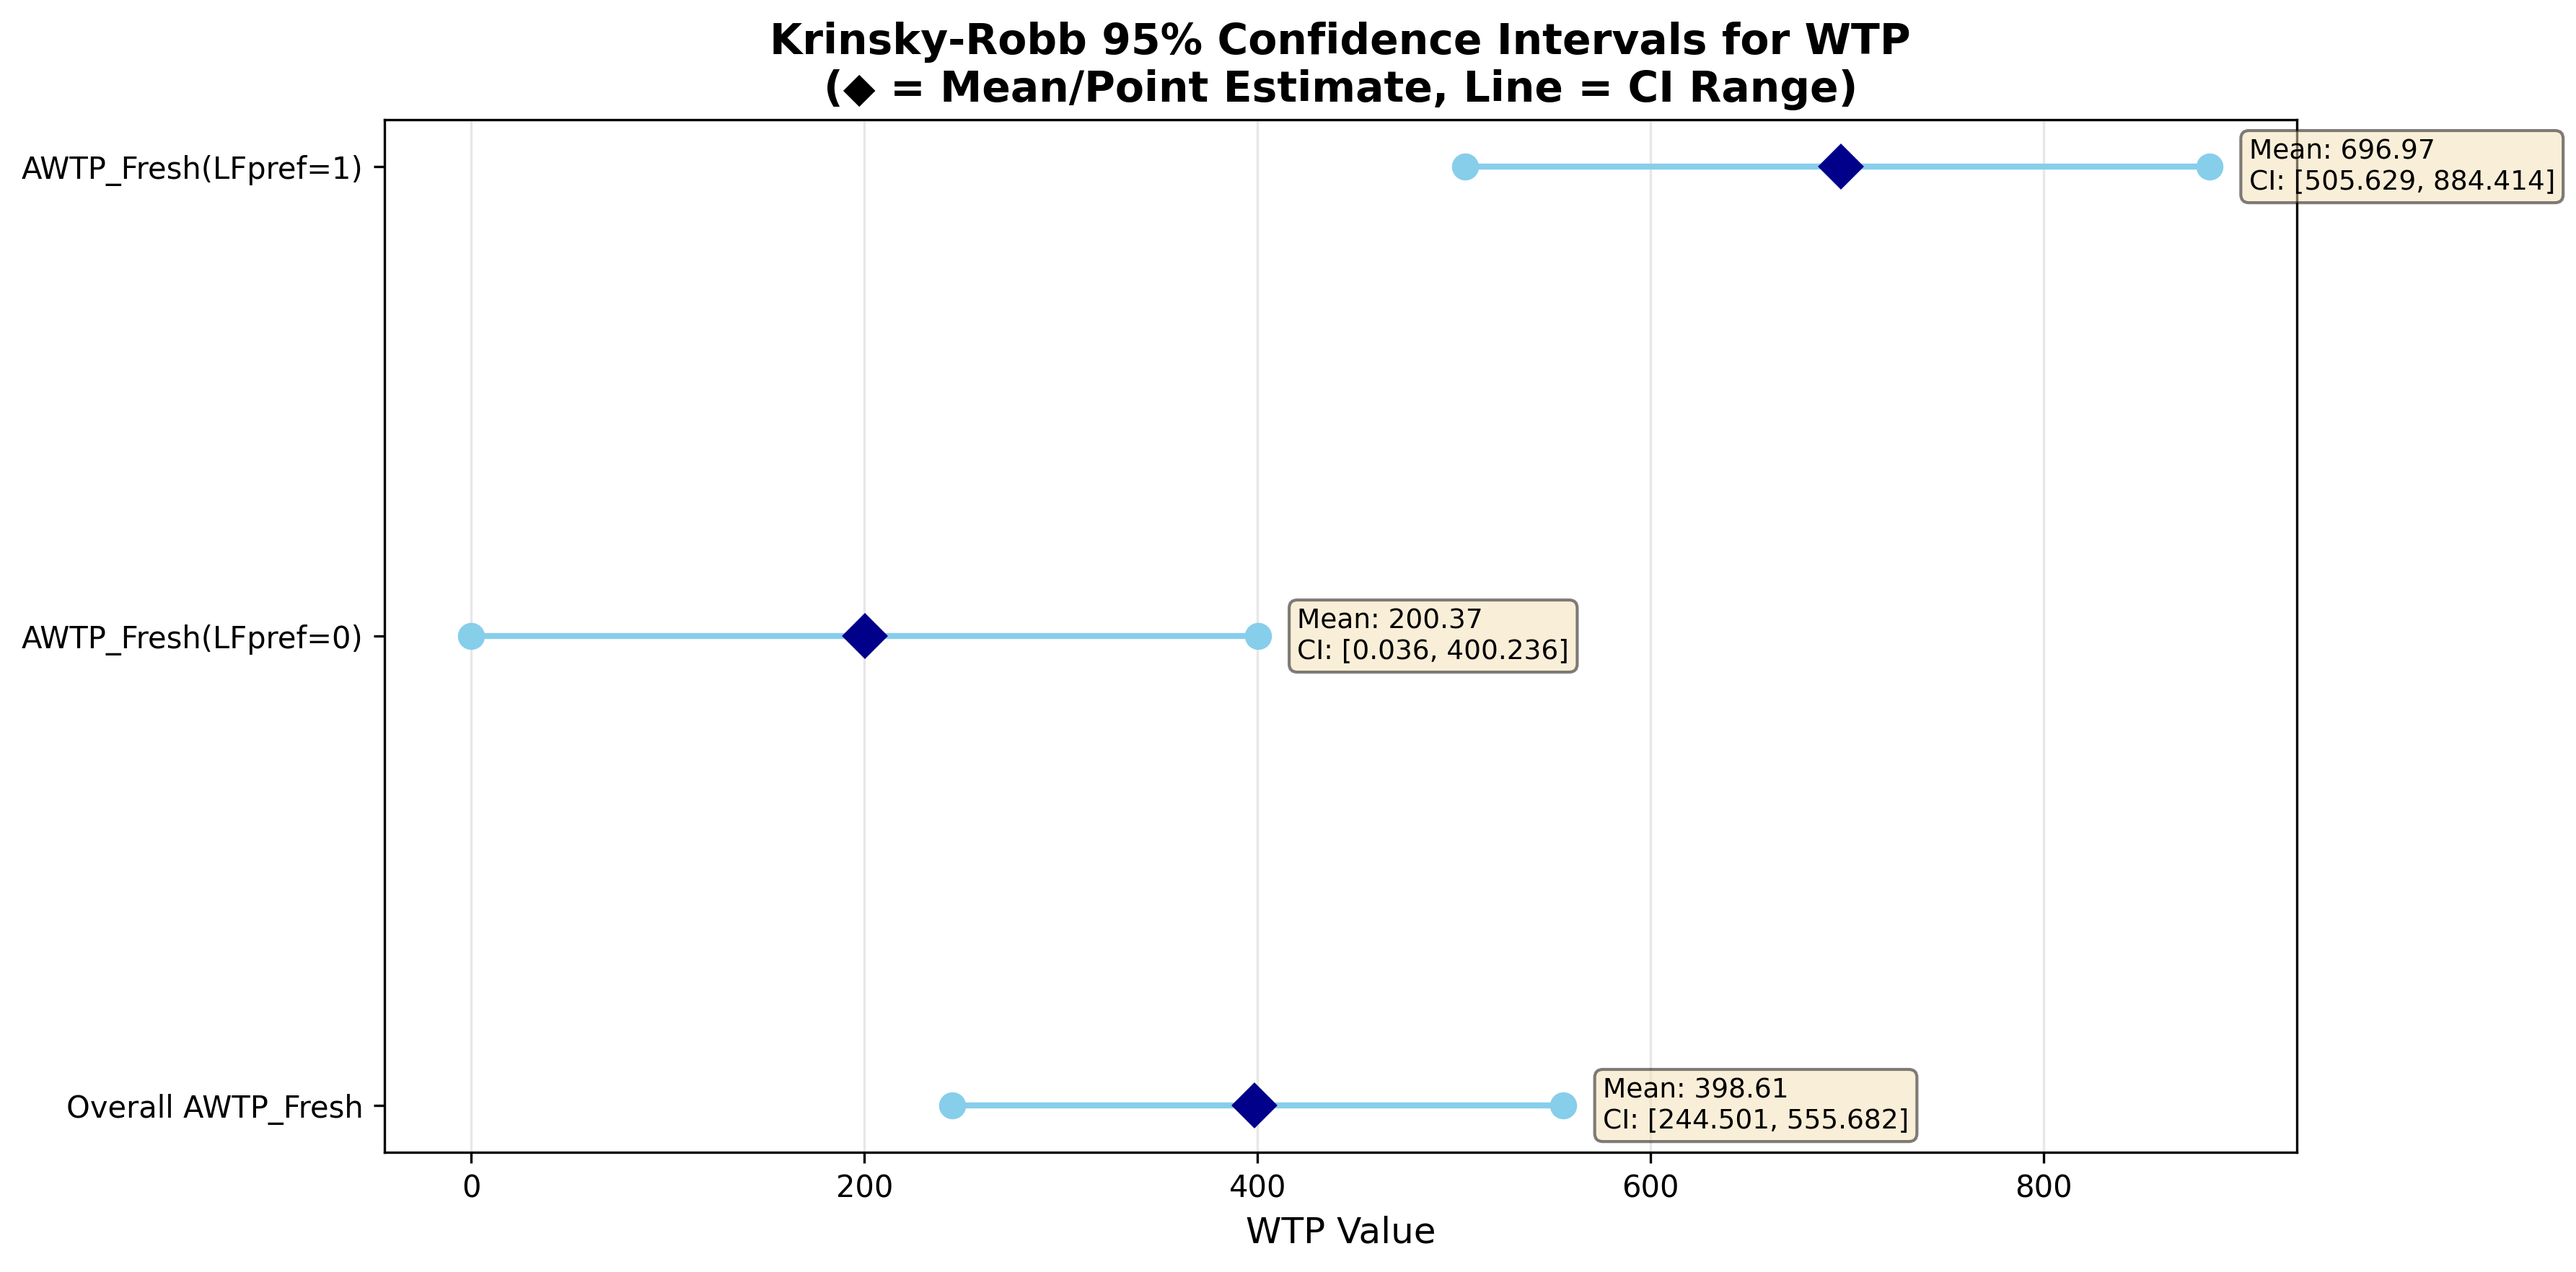
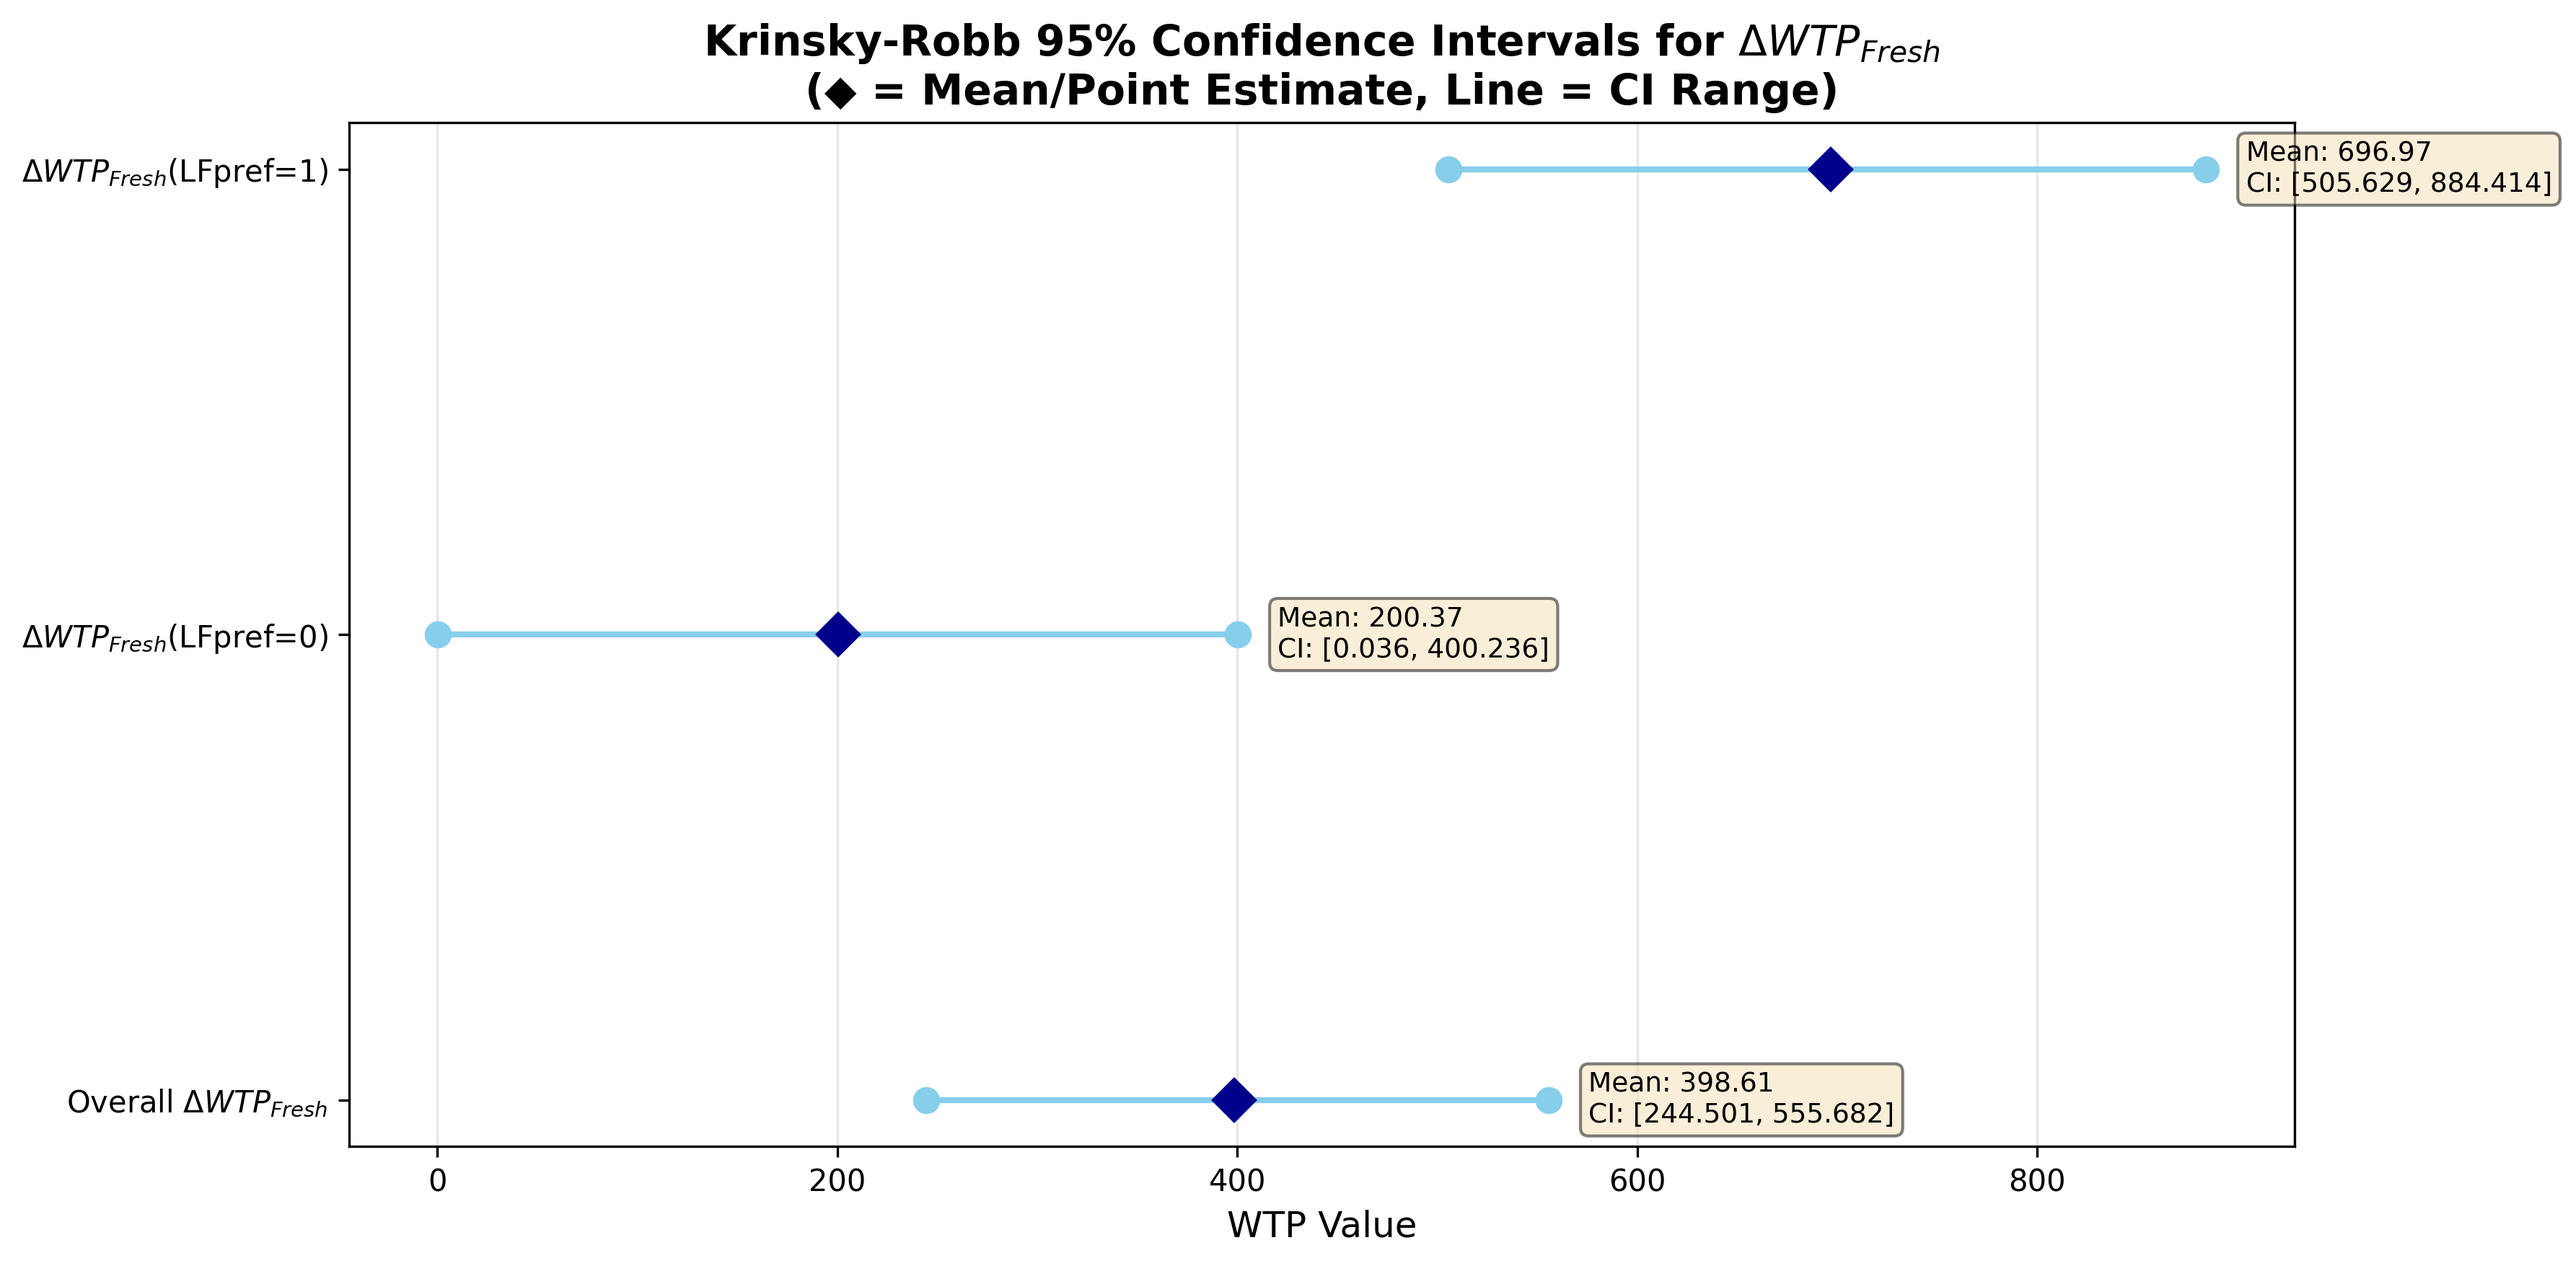
Update notation to use ΔWTP_Fresh with subscript italic format
- Replace AWTP_Fresh with ΔWTP_Fresh (delta symbol) in CSV and Python files
- Use LaTeX notation in matplotlib plots: $\Delta WTP_{\mathit{Fresh}}$
- Apply proper mathematical formatting with Fresh as subscript italic
- Update all category names and plot titles accordingly

diff --git a/wtp_analysis.py b/wtp_analysis.py
@@ -1,6 +1,6 @@
 """
 WTP (Willingness to Pay) Confidence Intervals Analysis
-Krinsky-Robb 95% Confidence Intervals for AWTP_Fresh
+Krinsky-Robb 95% Confidence Intervals for ΔWTP_Fresh
 """
 
 import pandas as pd
@@ -74,6 +74,13 @@ def plot_confidence_intervals(df, output_file='wtp_confidence_intervals.png'):
 
     y_positions = range(len(categories))
 
+    # Convert category names to LaTeX format for better mathematical notation
+    categories_latex = []
+    for cat in categories:
+        # Replace ΔWTP_Fresh with proper LaTeX notation
+        cat_latex = cat.replace('ΔWTP_Fresh', r'$\Delta WTP_{\mathit{Fresh}}$')
+        categories_latex.append(cat_latex)
+
     # Plot confidence intervals as horizontal lines
     for i, (cat, mean, lower, upper) in enumerate(zip(categories, means, ci_lower, ci_upper)):
         # CI line
@@ -86,9 +93,9 @@ def plot_confidence_intervals(df, output_file='wtp_confidence_intervals.png'):
                 va='center', fontsize=9, bbox=dict(boxstyle='round', facecolor='wheat', alpha=0.5))
 
     ax.set_yticks(y_positions)
-    ax.set_yticklabels(categories)
+    ax.set_yticklabels(categories_latex)
     ax.set_xlabel('WTP Value', fontsize=12)
-    ax.set_title('Krinsky-Robb 95% Confidence Intervals for WTP\n(◆ = Mean/Point Estimate, Line = CI Range)',
+    ax.set_title(r'Krinsky-Robb 95% Confidence Intervals for $\Delta WTP_{\mathit{Fresh}}$' + '\n(◆ = Mean/Point Estimate, Line = CI Range)',
                  fontsize=14, fontweight='bold')
     ax.grid(axis='x', alpha=0.3)
 
